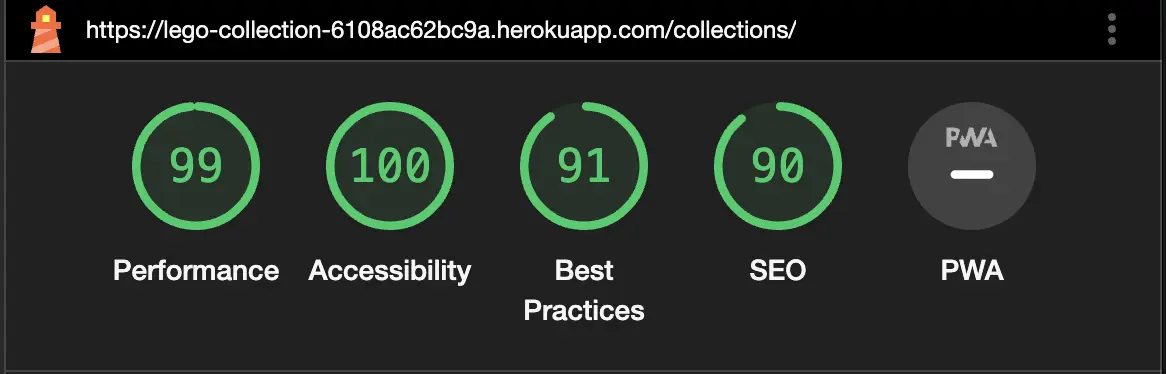
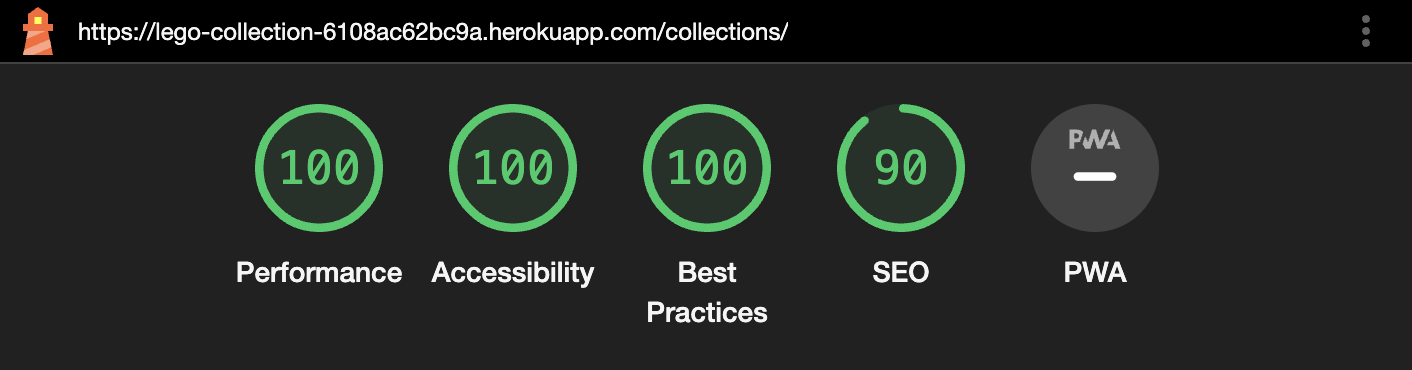
FEAT(readme): Validator updates post fixes

diff --git a/README.md b/README.md
@@ -256,31 +256,14 @@ Lighthouse was run on all pages for the site and issues identified were resolved
 - Images were all converted from png to webp
 - Missing meta header details were added
 - JavaScript console errors resolved
+- Aria-labels added for those fields without labels
 
 Cumulative Layout Shifts caused a lower score in Performance for the pages listed below. This was deemed acceptable, to enable better responsiveness and dynamic resizing.
-- Create Collection
 - Create Set
 - Profile page
 - Change password
 - Change email
-
-Accessibility issues were noted on some pages, due to automatically rendered Django forms:
-- Add Set
-  - ARIA input fields without accessible names (from Django Select2)
-- Collections page with sets
-  - Missing labels noted, but labels are present (though hidden). Text is still provided for these fields
-- Edit Collection
-  - Form/select/input fields are missing labels, from Django forms
-- Profile
-  - Form/select/input fields are missing labels, from Django forms
-
-Best Practice and SEO issues:
-- Collections page with sets
-  - User-entered images are provided with low resolution and incorrect aspect ratios (this is a conscious choice to keep the table layout styled accordingly)
-  - Hamburger links are not crawlable, however they are formatted as normal links
-- Edit Collection
-  - User-entered images are provided with low resolution and incorrect aspect ratios (this is a conscious choice to keep the table layout styled accordingly)
-
+- Create account
 
 Homepage
 <img src='static/images/readme/lh-home.webp' alt='Lighthouse scores for Hhomepage'>
@@ -317,6 +300,18 @@ Change email
 
 Shared page
 <img src='static/images/readme/lh-shared.webp' alt='Lighthouse scores for Shared page'>
+
+Create account
+<img src='static/images/readme/lh-create-acc.webp' alt='Lighthouse scores for Create Account page'>
+
+Forgot Login/Password
+<img src='static/images/readme/lh-pw-reset.webp' alt='Lighthouse scores for Forgot Login/Password page'>
+
+Login page
+<img src='static/images/readme/lh-login.webp' alt='Lighthouse scores for Login page'>
+
+Logged Out Views
+<img src='static/images/readme/lh-logged-out.webp' alt='Lighthouse scores for logged out pages'>
 
 
 ### Bugs
